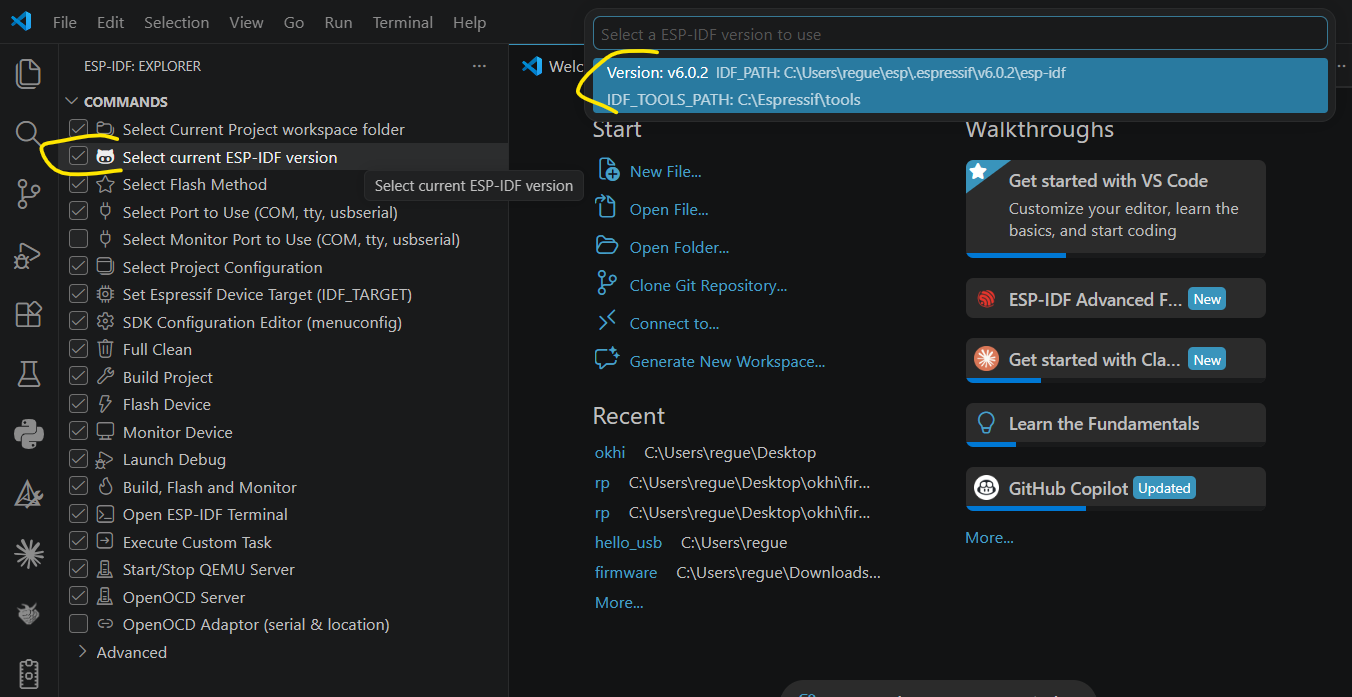
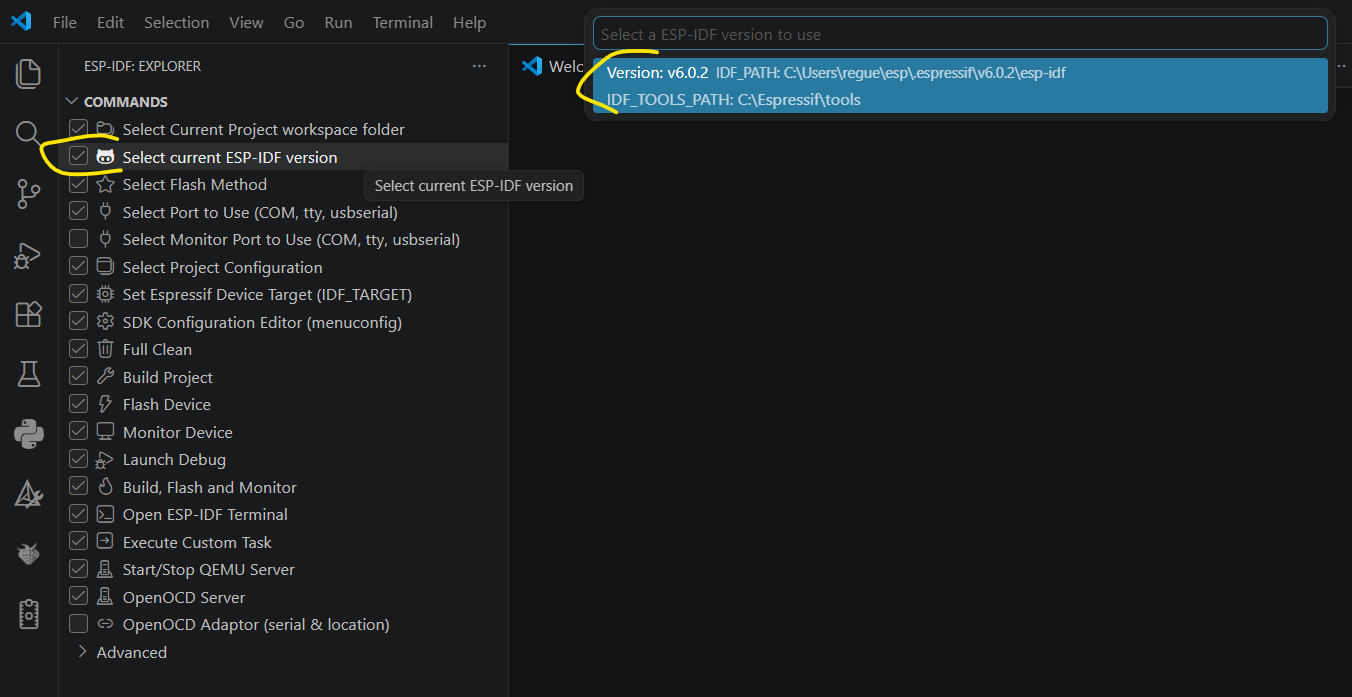
prev9

diff --git a/firmware/com/com_rp_hw.h b/firmware/com/com_rp_hw.h
@@ -564,10 +564,19 @@ static void rp_board_boot_init(void)
     gpio_set_dir(ESP_RESET_GPIO, GPIO_OUT);
     gpio_put(ESP_RESET_GPIO, false);
 
+    // The ESP reads its straps as it leaves reset: GPIO9 (EBOOT) must be 1 for SPI boot, GPIO8
+    // (ELOG) sets the ROM log. An RP2040 pad leaves reset with its pull-down on (50 to 80k) and
+    // gpio_init() keeps it (EBOOT's pad read 0x56 by SWD). The implant has no other pull on either
+    // line, so with that pull-down EBOOT would sit between it and the ESP's 45k pull-up, about 1.7
+    // to 2.1 V against an input high of 0.75 x VDD, and ELOG would read 0. EBOOT gets no pull, so
+    // the ESP's own pull-up decides. ELOG gets here the pull-up that esp_link_uart_init() sets
+    // again later.
     gpio_init(EBOOT_MASTERDATAREADY_GPIO);
     gpio_set_dir(EBOOT_MASTERDATAREADY_GPIO, GPIO_IN);
+    gpio_disable_pulls(EBOOT_MASTERDATAREADY_GPIO);
     gpio_init(ELOG_SLAVEREADY_GPIO);
     gpio_set_dir(ELOG_SLAVEREADY_GPIO, GPIO_IN);
+    gpio_pull_up(ELOG_SLAVEREADY_GPIO);
 
     if (!rp_switch_on_early)
     {

diff --git a/firmware/usb/rp/okhi.c b/firmware/usb/rp/okhi.c
@@ -31,7 +31,7 @@ WARNING: BULLSHIT CODE X-)
 
 /*
   Dreg's note: I have tried to document everything as best as possible and make the code and project
-  as accessible as possible for beginners. There may be errors (I am a lazy bastard using COPILOT)
+  as accessible as possible for beginners. There may be errors (I am a lazy bastard)
   if you find any, please make a PR
 */
 

diff --git a/README.md b/README.md
@@ -16,7 +16,7 @@ okhi is based on two chips: an RP2040 that sniffs and parses the keyboard data, 
 
 The RP2040 has a dual-core Arm Cortex-M0+ processor, so it handles several tasks at the same time (PIO rlz!).
 
-The ESP32-C2 is a new chip from Espressif, specifically the ESP8684, with a small single-core RISC-V CPU. The ESP8266, ESP8285, and ESP8654 are different chips: do not confuse them with the ESP8684.
+The ESP32-C2 is a new chip from Espressif, specifically the ESP8684, with a small single-core RISC-V CPU. The ESP8266, ESP8285, and ESP8685 are different chips: do not confuse them with the ESP8684.
 
 ----
 
@@ -986,9 +986,9 @@ GPIO9, the `EBOOT` line, sets the boot mode. It is the ESP's BOOT pin, the equiv
 - GPIO9 = 1 selects SPI boot (run the app in flash). This is the default: GPIO9 has an internal weak pull-up (datasheet table 10), so left alone it reads 1.
 - GPIO9 = 0 selects Joint Download Boot, the UART flashing mode that esptool drives.
 
-The rule the okhi RP follows: **while the ESP is in reset the RP must not pull GPIO9 low, or the ESP drops into flashing mode instead of running the app.** So the RP leaves `EBOOT` as an input (high-Z) during the ESP's boot (`rp_board_boot_init()` in [firmware/com/com_rp_hw.h](firmware/com/com_rp_hw.h) sets `GPIO_IN`), and the ESP's own pull-up wins and selects SPI boot. `esp_link_master_init()` turns `EBOOT` into a driven output later, once the ESP is up. To enter flashing mode on purpose, hold GPIO9 low and reset.
+The rule the okhi RP follows: **while the ESP is in reset the RP must not pull GPIO9 low, or the ESP drops into flashing mode instead of running the app.** So the RP leaves `EBOOT` as an input with its pad pulls off (high-Z) during the ESP's boot (`rp_board_boot_init()` in [firmware/com/com_rp_hw.h](firmware/com/com_rp_hw.h)), and the ESP's own pull-up selects SPI boot. The pulls have to be turned off: an RP2040 pad leaves reset with a 50 to 80 kΩ pull-down that `gpio_init()` keeps, and against the ESP's 45 kΩ pull-up it would hold GPIO9 at about 1.7 to 2.1 V, under the 0.75 × VDD the ESP needs to read a 1 (ESP8684 datasheet table 17). `esp_link_master_init()` turns `EBOOT` into a driven output 1 s after the ESP leaves reset (2 s on PS/2 and in the clock modes), long after the 3 ms the strap must hold. To enter flashing mode on purpose, hold GPIO9 low and reset.
 
-GPIO8, the `ELOG` line, is the other strap: it controls ROM-log printing. For SPI boot its level does not matter for the boot mode itself (datasheet table 12), but together with the `EFUSE_UART_PRINT_CONTROL` eFuse it still decides whether the boot ROM prints its messages on UART0 (table 13). Unlike GPIO9 it has no internal pull at all (table 10, "N/A"), so whatever pull you attach externally sets that strap at every reset. okhi puts an internal pull-up on `ELOG` from the RP side (`esp_link_uart_init()` in com_rp_hw.h), which pins the ROM-log strap high.
+GPIO8, the `ELOG` line, is the other strap: it controls ROM-log printing. For SPI boot its level does not matter for the boot mode itself (datasheet table 12), but together with the `EFUSE_UART_PRINT_CONTROL` eFuse it still decides whether the boot ROM prints its messages on UART0 (table 13). Unlike GPIO9 it has no internal pull at all (table 10, "N/A"), so whatever pull you attach externally sets that strap at every reset. okhi puts an internal pull-up on `ELOG` from the RP side before the ESP leaves reset (`rp_board_boot_init()` in com_rp_hw.h, and again in `esp_link_uart_init()`), which pins the ROM-log strap high.
 
 Because the RP holds `ELOG` high with that pull-up, there is a window right after any ESP reset (an OTA of the ESP, a WiFi settings change that restarts it, a brownout, the first seconds of power-on) where the ESP has not yet driven GPIO8, so the line floats high on the RP's pull-up. The master then reads `SLAVEREADY = high = armed` while the slave is still booting, clocks a frame at it, and those bytes are lost. **Never solve a strapping-pin problem by changing the strap**: flipping the RP pull to a pull-down, so that a floating line reads not-ready, would change what the ESP samples at every reset, because that pin is the ROM-log strap. The fix stays in software on the master side: the RP keeps the keystrokes in its own buffer (the PS/2 build sends none until a poll has come back with a valid answer from the ESP, `esp_link_up`), never has more than four unconfirmed ones out, and the sequence confirmation described in quirk 4 sends again anything that still got lost.
 
@@ -997,6 +997,7 @@ If you are wiring your own two-chip board:
 - Read the strapping table before you assign a handshake to GPIO8 or GPIO9.
 - Choose any pull on a strapping pin to match the level the strap needs at reset, not just the level your handshake wants when idle.
 - Prefer to leave a strapping pin at its strap default (high-Z, let its own pull decide) during the other chip's reset, and drive it only once that chip is past boot, as the `EBOOT` input-then-output flip does here. The strapping setup/hold window is short (datasheet table 11: hold 3 ms after CHIP_EN is released), but short is not zero, so a line that stays quiet across the other chip's reset is the safe design.
+- On an RP2040 that includes the pad pulls: `gpio_init()` and `gpio_set_dir()` keep the reset pull-down, so call `gpio_disable_pulls()`, or set the pull the strap needs, before you release the other chip from reset.
 
 ### ESP-IDF specifics
 
@@ -4199,7 +4200,10 @@ from the page). Each
 write goes to the next sector with the next record number
 (`usb hid: maps of <n> devices kept in flash, <bytes> B, record <r> in sector <s>`). At boot each
 device of the newest record is read back parked under its old address
-(`usb hid: 0x<addr> <vid>:<pid> maps from flash, parked until it shows up`).
+(`usb hid: 0x<addr> <vid>:<pid> maps from flash, parked until it shows up`). On the test bench a
+Corsair K63 and a Logitech Unifying receiver each came through a watchdog reset and a reset from
+the page with every key state exact (73 and 66 on the K63, 68 and 66 on the receiver), and none
+of the receiver's 284 touchpad reports reached the keylog.
 
 A device with no map takes the raw path: an 8-byte DATA packet answering an IN token on an
 endpoint other than 0 is forwarded as `IN: 0x<addr>/0x<ep> b0 ... b7;`, and the page reads it
